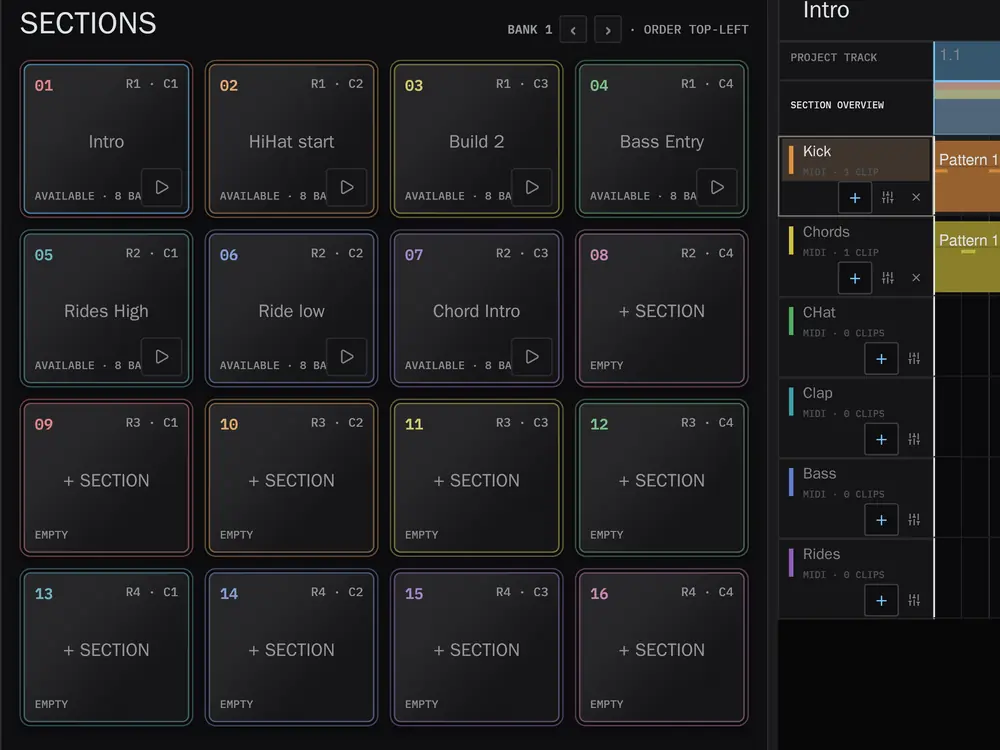
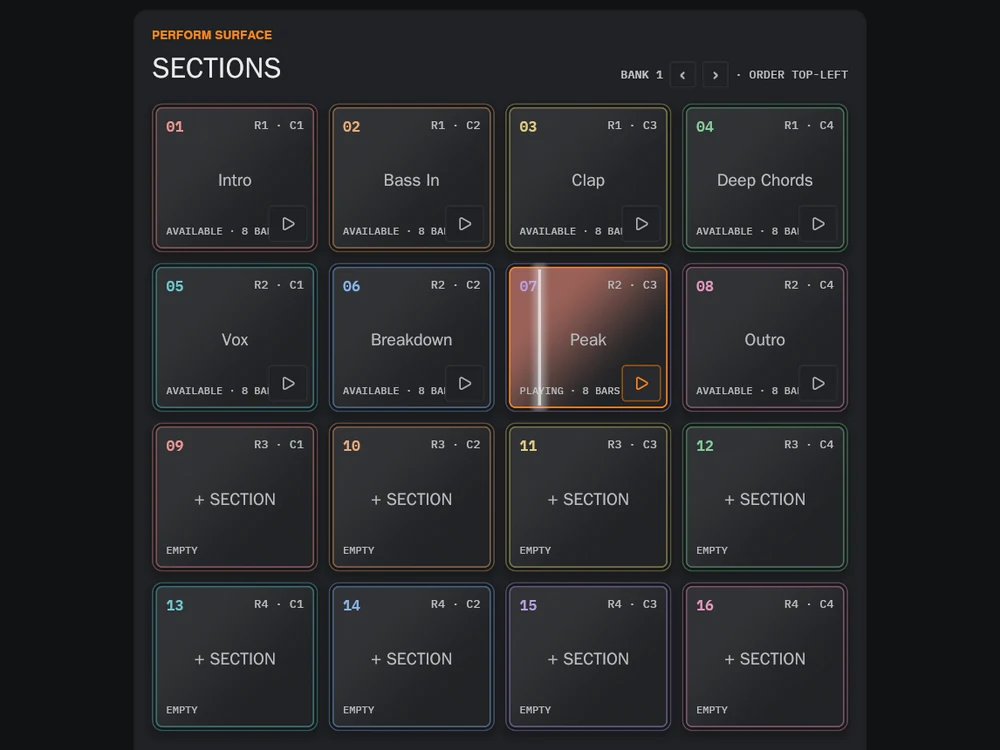
docs(site): show the new UI on under-it-all
Recapture every band, pad crop and the social card from the release
build on a copy of under-it-all, and rewrite the captions and alt text
to describe what each new image shows.

diff --git a/site/index.html b/site/index.html
@@ -430,12 +430,12 @@ footer .for-mum { flex-basis: 100%; }
         <li><b>Record <kbd>F4</kbd></b><span>Record a take with a count-in, into the selected Section or the selected clip cell.</span></li>
       </ul>
       <figure class="shot">
-        <img src="images/band-perform.webp" alt="The Perform workspace: a 16 pad grid of named Sections, one playing, beside the Section editor, with a channel EQ below" width="1100">
-        <figcaption>Perform &middot; Sections mode &middot; Build 2 playing &middot; the Chords EQ in the rack below</figcaption>
+        <img src="images/band-perform.webp" alt="The Perform workspace: a 16 pad grid of named Sections with Peak playing, the Section editor beside it, the sample Browser on the left and the Deep Chords Sampler and EQ below" width="1100">
+        <figcaption>Perform &middot; Sections mode &middot; Peak playing &middot; the Deep Chords Sampler and EQ below</figcaption>
       </figure>
       <figure class="shot">
-        <img src="images/band-clips.webp" alt="The clip launcher: a column of clips per track, several playing, with a warped audio clip open in the editor" width="1100" loading="lazy">
-        <figcaption>Perform &middot; clip launcher &middot; clips playing across three rows &middot; a warped audio clip in the editor</figcaption>
+        <img src="images/band-clips.webp" alt="The clip launcher: a column of clips per track with eight clips playing, and a warped percussion loop open in the clip editor" width="1100" loading="lazy">
+        <figcaption>Perform &middot; clip launcher &middot; eight clips playing &middot; a warped percussion loop in the editor</figcaption>
       </figure>
     </section>
   </div>
@@ -467,8 +467,8 @@ footer .for-mum { flex-basis: 100%; }
         <li><b>Autosave</b><span>Projects are saved to a versioned, self-contained file, with autosave working in the background.</span></li>
       </ul>
       <figure class="shot">
-        <img src="images/band-arrange.webp" alt="A captured performance written into the Arrangement, with a channel EQ and its live spectrum below" width="1100">
-        <figcaption>Arrange &middot; a captured take &middot; the Chords EQ with its live spectrum</figcaption>
+        <img src="images/band-arrange.webp" alt="A full arrangement playing, with an Echo feedback automation lane under the Pad track and the Pad device rack below" width="1100">
+        <figcaption>Arrange &middot; a 280 bar arrangement playing &middot; Echo feedback automation on Pad &middot; Surge XT, EQ and Echo in its rack</figcaption>
       </figure>
     </div>
   </section>
@@ -487,8 +487,8 @@ footer .for-mum { flex-basis: 100%; }
         rack follows the selected channel and hosts vibez instruments, VST3 plugins and CLAP plugins.
       </p>
       <figure class="shot">
-        <img src="images/band-mix.webp" alt="The Mix workspace: channel strips with EQ curves, the master channel, and the device rack" width="1100">
-        <figcaption>Mix &middot; channel EQ and sends &middot; Reverb and Delay returns &middot; the Reverb return's rack</figcaption>
+        <img src="images/band-mix.webp" alt="The Mix workspace: channel strips with four band EQs, faders and meters, the master channel, and the Vox device rack below" width="1100">
+        <figcaption>Mix &middot; nine channels and the master &middot; the Vox Drum Rack and EQ in the rack</figcaption>
       </figure>
     </section>
 
@@ -774,39 +774,39 @@ cd vibez &amp;&amp; cargo run --release</code>
 
   /* the pad grid: same default mapping as the app */
   /* Every image below is a crop from the running __VERSION__ build on the
-     elise2 project, framed on the control the pad is about. */
+     under-it-all project, framed on the control the pad is about. */
   var PADS = [
-    { k: '1', n: 'Sections',        m: 'Perform \u00b7 F1', s: 'images/sections.webp', c: 'Perform \u00b7 Sections mode \u00b7 bank 1',
+    { k: '1', n: 'Sections',        m: 'Perform \u00b7 F1', s: 'images/sections.webp', c: 'Perform \u00b7 Sections mode \u00b7 Peak playing',
       d: 'Put one musical idea on a pad. The next Section can be a small variation or a different tune altogether.' },
-    { k: '2', n: 'Track Mutes',     m: 'Perform \u00b7 F2', s: 'images/trackmutes.webp', c: 'Perform \u00b7 Track Mutes \u00b7 one pad per project track',
+    { k: '2', n: 'Track Mutes',     m: 'Perform \u00b7 F2', s: 'images/trackmutes.webp', c: 'Perform \u00b7 Track Mutes \u00b7 Vox and Pad muted',
       d: 'The same grid now controls the tracks. Bring drums, bass and chords in and out while the music keeps moving.' },
-    { k: '3', n: 'Instrument',      m: 'Perform \u00b7 F3', s: 'images/instrument.webp', c: 'Perform \u00b7 Instrument mode \u00b7 the kit across 16 pads',
+    { k: '3', n: 'Instrument',      m: 'Perform \u00b7 F3', s: 'images/instrument.webp', c: 'Perform \u00b7 Instrument mode \u00b7 Vox across 16 pads, F#2 held',
       d: 'The 16 pads become a playable instrument for the selected track, so you can play a part in rather than draw it. Hold Shift to see the targets.' },
-    { k: '4', n: 'Capture',         m: 'Perform into Arrange \u00b7 F5', s: 'images/capture.webp', c: 'Perform \u00b7 Capture armed for Arrange',
+    { k: '4', n: 'Capture',         m: 'Perform into Arrange \u00b7 F5', s: 'images/capture.webp', c: 'Arrange \u00b7 a captured take, Peak then Breakdown',
       d: 'Record the jam into Arrange. Section changes, live notes, mutes and automation are saved as clips and automation you can edit.' },
-    { k: 'Q', n: 'Section Record',  m: 'Perform \u00b7 F4', s: 'images/sectionrec.webp', c: 'Perform \u00b7 Section Record \u00b7 count-in and Overdub',
+    { k: 'Q', n: 'Section Record',  m: 'Perform \u00b7 F4', s: 'images/sectionrec.webp', c: 'Perform \u00b7 Section Record \u00b7 one bar count-in and Overdub',
       d: 'Record into a Section with a count-in. Use Overdub to add notes or Replace to record over them.' },
-    { k: 'W', n: 'Swing',           m: 'Perform \u00b7 per project, track or clip', s: 'images/swing.webp', c: 'Perform \u00b7 swing following the project',
+    { k: 'W', n: 'Swing',           m: 'Perform \u00b7 per project, track or clip', s: 'images/swing.webp', c: 'Perform \u00b7 the Hat clip swung at 1/16, 57% from its track',
       d: 'Modelled on the MPC2000XL. Set it per project, per track, or per clip, and automate it.' },
-    { k: 'E', n: 'Note Repeat',     m: 'Perform \u00b7 hold N', s: 'images/noterepeat.webp', c: 'Perform \u00b7 Note Repeat held on N',
+    { k: 'E', n: 'Note Repeat',     m: 'Perform \u00b7 hold N', s: 'images/noterepeat.webp', c: 'Perform \u00b7 Note Repeat held on N at 1/16',
       d: 'Hold N and a held pad repeats at the chosen rate, following the swing setting. N is reserved, so no pad can be rebound to it.' },
     { k: 'R', n: 'Full Level',      m: 'Perform \u00b7 Instrument mode', s: 'images/fulllevel.webp', c: 'Perform \u00b7 Full Level pinned to velocity 127',
       d: 'Pin every pad to maximum velocity while you play a part in.' },
-    { k: 'A', n: '16 Levels',       m: 'Perform \u00b7 Instrument mode', s: 'images/sixteenlevels.webp', c: 'Perform \u00b7 16 Levels spread across pitch',
+    { k: 'A', n: '16 Levels',       m: 'Perform \u00b7 Instrument mode', s: 'images/sixteenlevels.webp', c: 'Perform \u00b7 16 Levels spread across pitch from B2',
       d: 'Spread one sound across all sixteen pads, so the grid becomes a controller for velocity or pitch across a chosen range.' },
-    { k: 'S', n: 'Quantized launch', m: 'Perform \u00b7 per Section', s: 'images/quantize.webp', c: 'Perform \u00b7 launch quantize on the selected Section',
+    { k: 'S', n: 'Quantized launch', m: 'Perform \u00b7 per Section', s: 'images/quantize.webp', c: 'Perform \u00b7 launch quantize on the Deep Chords Section',
       d: 'Choose immediate, one beat, one bar or the end of the Section. The next Section starts on that boundary.' },
     { k: 'D', n: 'Banks',           m: 'Perform \u00b7 [ and ]', s: 'images/banks.webp', c: 'Perform \u00b7 bank 1, ordered top left',
       d: 'Square brackets move between banks of sixteen. A project can have more Sections than the sixteen pads shown on screen.' },
-    { k: 'F', n: 'Piano roll',      m: 'Arrange \u00b7 B', s: 'images/pianoroll.webp', c: 'Arrange \u00b7 piano roll on a captured clip',
+    { k: 'F', n: 'Piano roll',      m: 'Arrange \u00b7 B', s: 'images/pianoroll.webp', c: 'Arrange \u00b7 piano roll on a captured Deep Chords clip',
       d: 'Draw and select modes, multi-note editing, velocity, quantize, and adaptive snap grids. Arrow keys nudge and transpose.' },
-    { k: 'Z', n: 'Automation',      m: 'Arrange', s: 'images/automation.webp', c: 'Arrange \u00b7 picking an automation target, device parameters included',
+    { k: 'Z', n: 'Automation',      m: 'Arrange', s: 'images/automation.webp', c: 'Arrange \u00b7 an Echo feedback lane under the Pad track',
       d: 'Automate track, mixer, device and plugin parameters. Track mutes recorded during a performance appear here as editable lanes.' },
-    { k: 'X', n: 'Warping',         m: 'Browser and Arrange', s: 'images/warping.webp', c: 'Browser \u00b7 warp audition \u00b7 source 132.7 detected against project 128',
+    { k: 'X', n: 'Warping',         m: 'Browser and Arrange', s: 'images/warping.webp', c: 'Clip editor \u00b7 a percussion loop warped to 120 BPM \u00b7 28 transients',
       d: 'Preview a loop against the playing track. Warp detects its tempo, fits it to the project BPM and keeps it there when the tempo changes.' },
     { k: 'C', n: 'Channel EQ',      m: 'Mix', s: 'images/channeleq.webp', c: 'Mix \u00b7 every channel with its own four band EQ',
       d: 'Every channel has a four band EQ and named sends to the returns. Returns and the master use the same channel strip.' },
-    { k: 'V', n: 'Device rack',     m: 'Mix', s: 'images/devicerack.webp', c: 'Mix \u00b7 the Sampler in the rack of the selected channel',
+    { k: 'V', n: 'Device rack',     m: 'Mix', s: 'images/devicerack.webp', c: 'Mix \u00b7 the Drum Rack and EQ on the Vox channel',
       d: 'The rack holds vibez\u2019s own synths, sampler, drum rack and effects. It also loads VST3 and CLAP plugins with their native interfaces. Plugin scanning runs in a separate process, so a broken plugin does not crash vibez.' }
   ];
   var HUES = ['var(--kick)', 'var(--chords)', 'var(--chat)', 'var(--clap)'];
